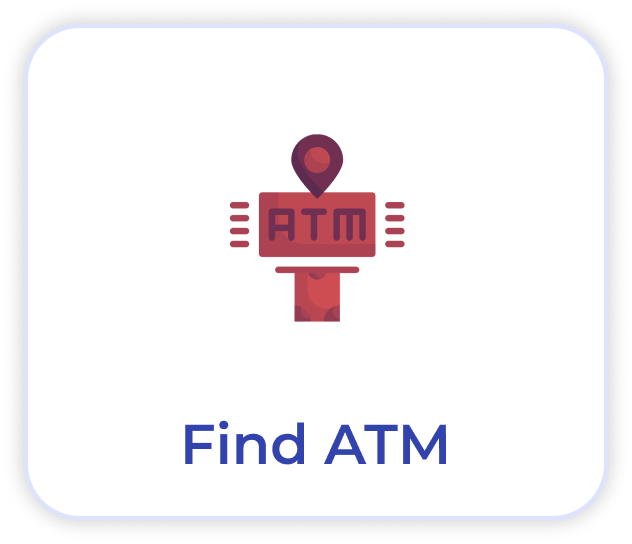
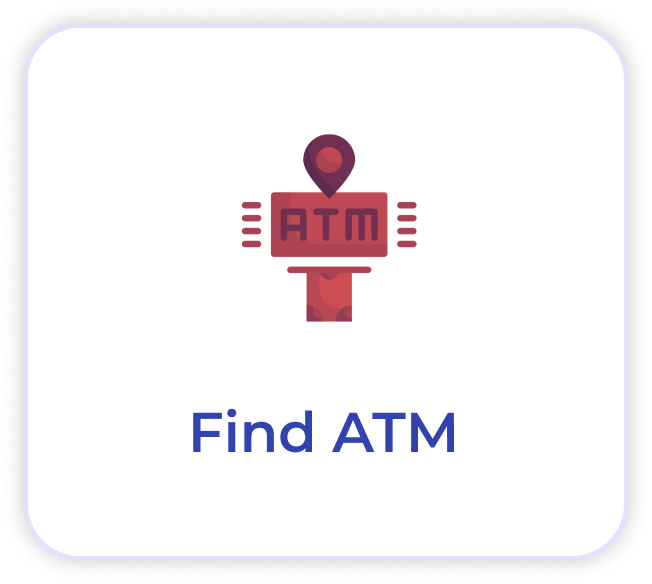
added

diff --git a/src/screen/Dashboard.js b/src/screen/Dashboard.js
@@ -13,29 +13,37 @@ import {useNavigation} from '@react-navigation/native';
 
 const handleOpenGoogleMapsATM = () => {
   // Replace "Custom Search Query" with your desired custom search query
-  const searchQuery = "Find near by me ATM";
+  const searchQuery = 'Find near by me ATM';
 
   // Use the following deep link to open Google Maps with the custom search
-  const url = `https://www.google.com/maps/search/?api=1&query=${encodeURIComponent(searchQuery)}`;
+  const url = `https://www.google.com/maps/search/?api=1&query=${encodeURIComponent(
+    searchQuery,
+  )}`;
 
   // Open the link using Linking module
-  Linking.openURL(url)
-    .catch(() => alert('Unable to open Google Maps. Please make sure the Google Maps app is installed.'));
+  Linking.openURL(url).catch(() =>
+    alert(
+      'Unable to open Google Maps. Please make sure the Google Maps app is installed.',
+    ),
+  );
 };
 
 const handleOpenGoogleMapsBank = () => {
   // Replace "Custom Search Query" with your desired custom search query
-  const searchQuery = "Find near by me Bank";
+  const searchQuery = 'Find near by me Bank';
 
   // Use the following deep link to open Google Maps with the custom search
-  const url = `https://www.google.com/maps/search/?api=1&query=${encodeURIComponent(searchQuery)}`;
+  const url = `https://www.google.com/maps/search/?api=1&query=${encodeURIComponent(
+    searchQuery,
+  )}`;
 
   // Open the link using Linking module
-  Linking.openURL(url)
-    .catch(() => alert('Unable to open Google Maps. Please make sure the Google Maps app is installed.'));
+  Linking.openURL(url).catch(() =>
+    alert(
+      'Unable to open Google Maps. Please make sure the Google Maps app is installed.',
+    ),
+  );
 };
-
-
 
 const Dashboard = () => {
   const navigation = useNavigation();
@@ -44,20 +52,22 @@ const Dashboard = () => {
     <SafeAreaView className="">
       <StatusBar backgroundColor="#879DFF" />
       <View>
-        <View className="box-content h-48 w-full rounded-b-[40px] bg-primaryC px-10 py-2 flex-row items-center -mt-12">
-          
+        <View className="box-content h-48 w-full rounded-b-[40px] bg-primaryC px-12 py-2 flex-row items-center justify-between -mt-12">
           <TouchableOpacity
-              onPress={() => {
-                navigation.navigate('MenuBar');
-              }}><Image
-              className="w-[25px] h-[14px] mr-4"
+            onPress={() => {
+              navigation.navigate('MenuBar');
+            }}>
+            <Image
+              className="w-[25px] h-[14px]"
               source={allImages.Menu}
               alt="menu"
-            /></TouchableOpacity>
-          
+            />
+          </TouchableOpacity>
+
           <Text className="text-whiteC text-center text-2xl font-bold">
             Finance Calculator
           </Text>
+          <Text>{}</Text>
         </View>
         <View className="mx-5  items-center">
           <View className="flex-row -mt-12 ">
@@ -66,7 +76,7 @@ const Dashboard = () => {
                 navigation.navigate('Emicalculator');
               }}>
               <Image
-                className="w-[160px] h-[140px]"
+                className="w-[150px] h-[134px]"
                 source={allImages.BankAccountCard1}
                 alt="card"
               />
@@ -76,7 +86,7 @@ const Dashboard = () => {
                 navigation.navigate('OtherCalculator');
               }}>
               <Image
-                className="w-[160px] h-[140px]"
+                className="w-[150px] h-[134px]"
                 source={allImages.BankAccountCard2}
                 alt="card"
               />
@@ -88,7 +98,7 @@ const Dashboard = () => {
                 navigation.navigate('PrePayments');
               }}>
               <Image
-                className="w-[160px] h-[140px]"
+                className="w-[150px] h-[134px]"
                 source={allImages.BankAccountCard3}
                 alt="card"
               />
@@ -98,7 +108,7 @@ const Dashboard = () => {
                 navigation.navigate('History');
               }}>
               <Image
-                className="w-[160px] h-[140px]"
+                className="w-[150px] h-[134px]"
                 source={allImages.BankAccountCard4}
                 alt="card"
               />
@@ -118,7 +128,7 @@ const Dashboard = () => {
                 navigation.navigate('CompareLoan');
               }}>
               <Image
-                className="w-[160px] h-[140px]"
+                className="w-[150px] h-[134px]"
                 source={allImages.CompareLoan}
                 alt="card"
               />
@@ -128,36 +138,36 @@ const Dashboard = () => {
                 navigation.navigate('ChangeCurrency');
               }}>
               <Image
-                className="w-[160px] h-[140px]"
+                className="w-[150px] h-[134px]"
                 source={allImages.ChangeCurrency}
                 alt="card"
               />
             </TouchableOpacity>
           </View>
         </View>
-        <View className="mx-5 flex-row items-center justify-between">
-          
+        <View className="mx-5 items-center ">
+          <View className="flex-row">
             <TouchableOpacity
               onPress={() => {
-                handleOpenGoogleMapsBank()
+                handleOpenGoogleMapsBank();
               }}>
               <Image
-                className="w-[160px] h-[140px]"
+                className="w-[150px] h-[134px]"
                 source={allImages.FindBank}
                 alt="card"
               />
             </TouchableOpacity>
             <TouchableOpacity
               onPress={() => {
-                handleOpenGoogleMapsATM()
+                handleOpenGoogleMapsATM();
               }}>
               <Image
-                className="w-[160px] h-[140px]"
+                className="w-[150px] h-[134px]"
                 source={allImages.FindAtm}
                 alt="card"
               />
             </TouchableOpacity>
-          
+          </View>
         </View>
       </View>
     </SafeAreaView>
